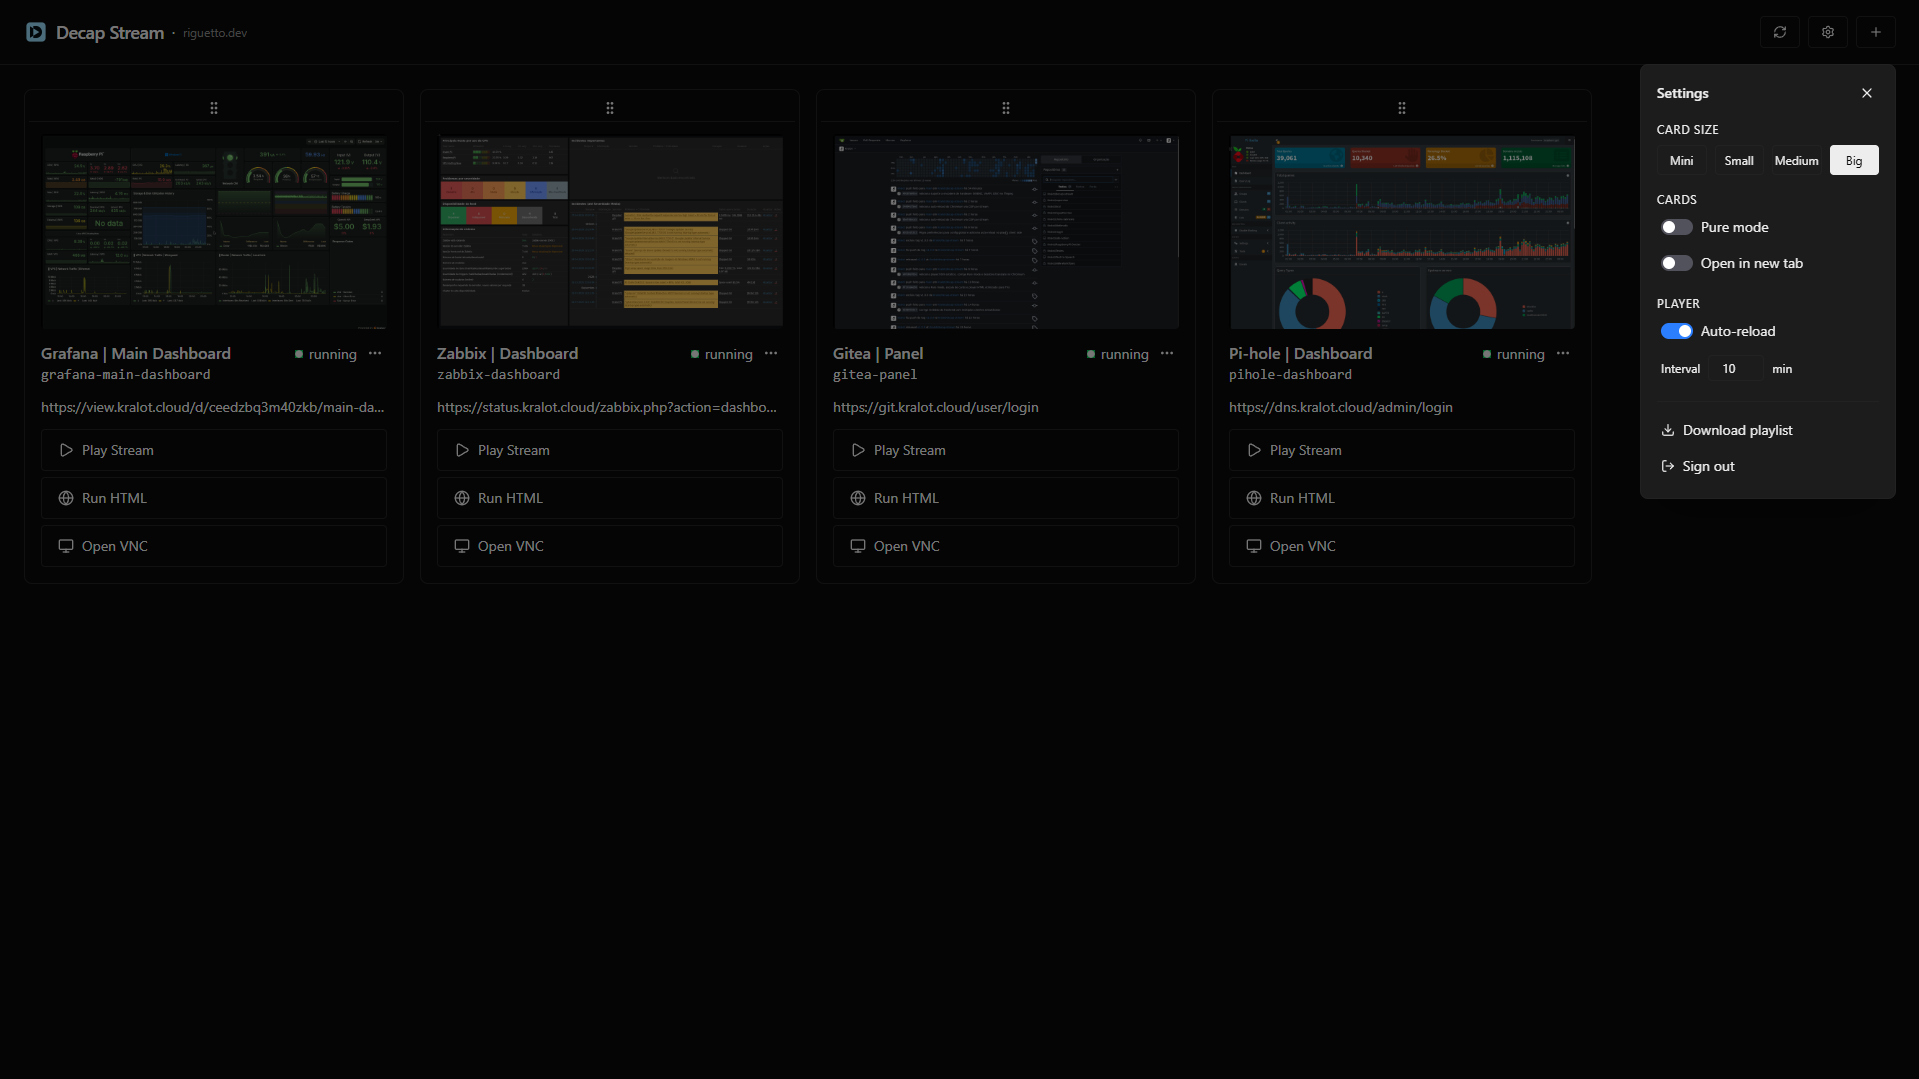
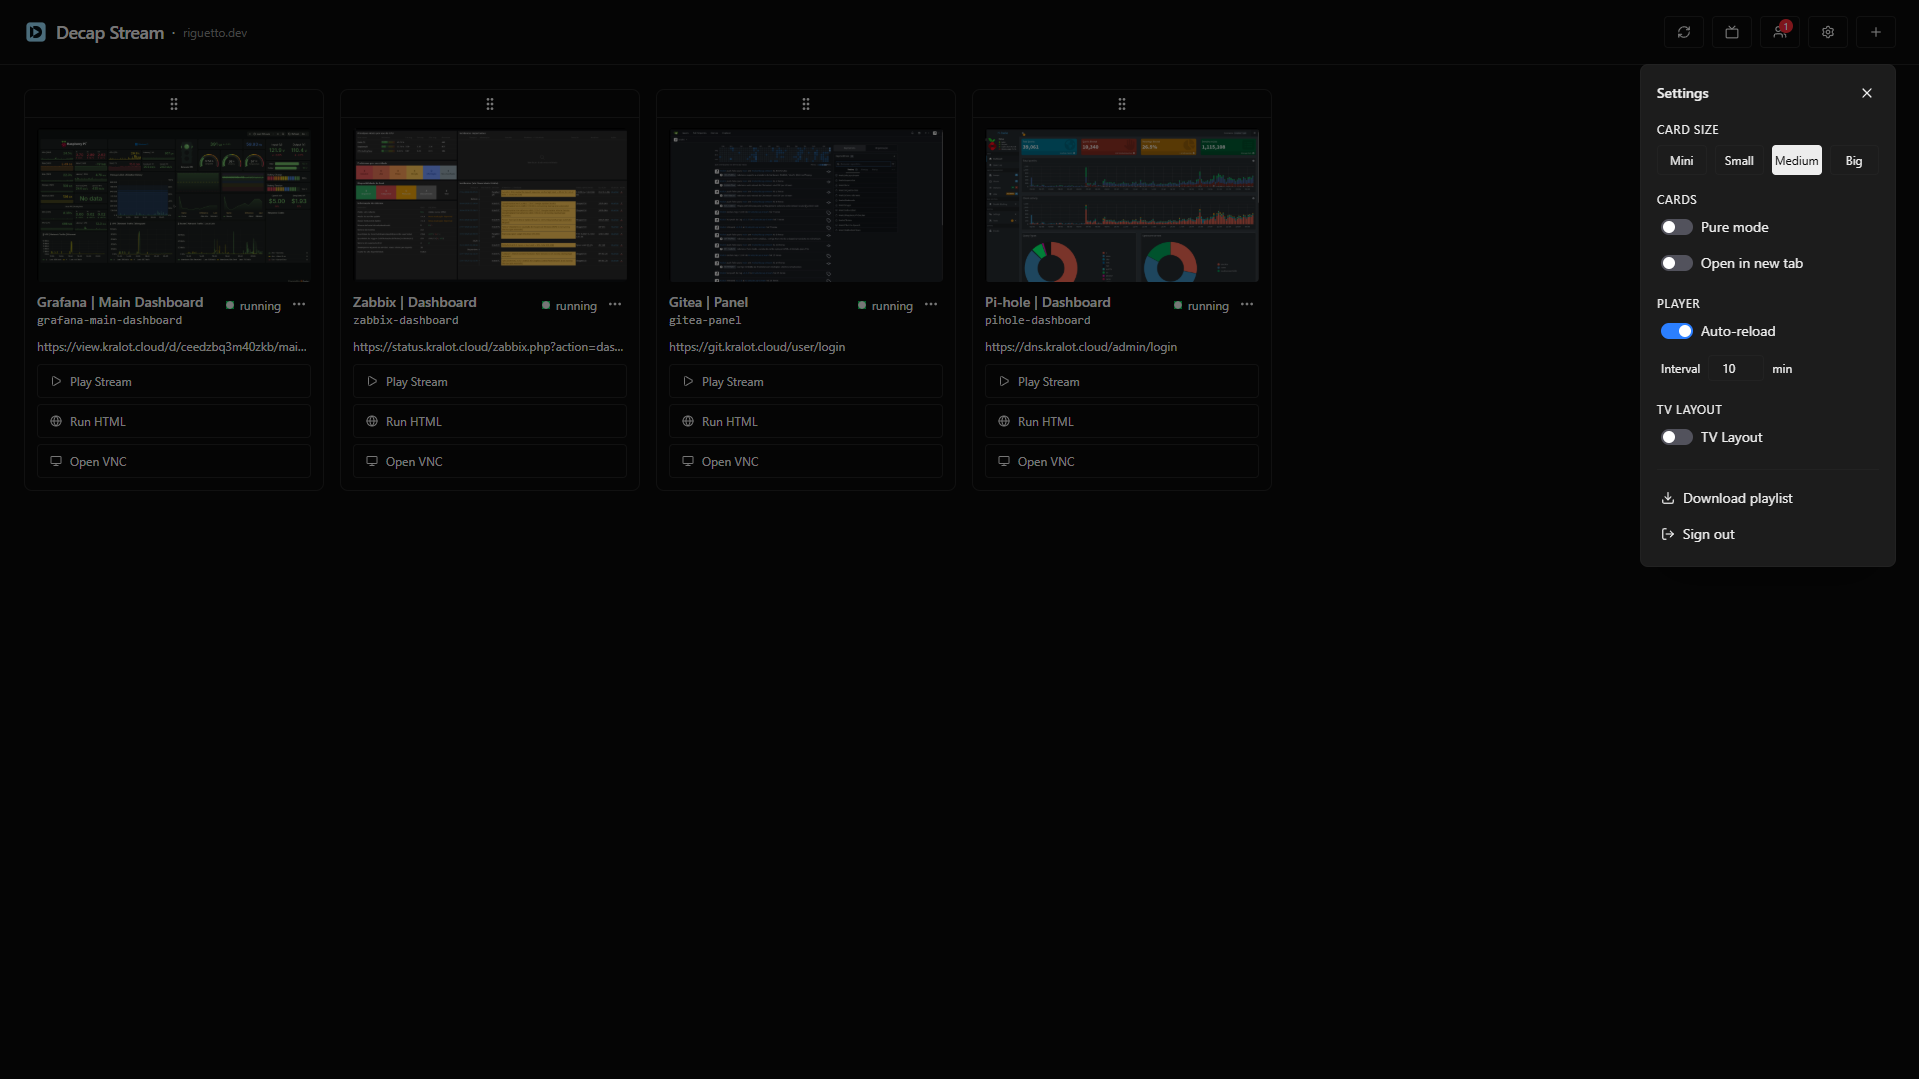
Atualiza Screenshots, README e CHANGELOG

diff --git a/CHANGELOG.md b/CHANGELOG.md
@@ -1,45 +1,28 @@
 # Changelog
 
-## Decap Stream v1.0.0
+## Decap Stream v1.1.0
 
-Turn any web page into an RTMP/HLS stream. Chromium renders the page in a virtual display, ffmpeg captures it, and MediaMTX publishes it, all managed through a web UI.
+### Added
 
-### What's included
+- **TV Layout** — grid view (`rows × cols`) replacing the cards list, with thumbnails, auto-refresh, click-to-open (HLS / HTML / VNC) and drag-and-drop into fixed slots persisted on the server (`tvPosition`).
+- **TV Wall fullscreen** — `/api/tv-wall?rows=R&cols=C` returns an HTML page that plays the HLS of every stream in its slot simultaneously, with per-cell stall detection, global mute and Pure variant (`?pure=1`).
+- **Active viewer tracking** — `<Users>` popup in the header shows who is watching each stream (IP, mode, duration). Captures HLS/HTML/Wall via the proxy and VNC via the WebSocket upgrade; TV Wall is deduplicated to 1 viewer per IP.
+- **Hardware encoders for ffmpeg** — `FFMPEG_HWACCEL` env var selects `nvenc`, `vaapi` or `qsv` (default keeps `libx264`). Preset/tune are mapped to each codec; Dockerfile ships VAAPI/QSV drivers.
+- **Per-stream Chromium auto-reload** — toggle + interval in the card menu, run by a dedicated `autoreload-{id}` supervisor process that reloads the page via Chrome DevTools Protocol without restarting the stream.
+- **Player client-side auto-reload** — `autoReload` + `reloadInterval` in global preferences make `/player/[id]` reload itself on a configurable interval.
+- **UI defaults via env vars** — `DEFAULT_PURE_MODE`, `DEFAULT_OPEN_NEW_TAB`, `DEFAULT_RELOAD_CLIENT`, `DEFAULT_RELOAD_CLIENT_TIME`, `DEFAULT_TV_LAYOUT`, `DEFAULT_TV_ROWS`, `DEFAULT_TV_COLS`, `DEFAULT_TV_CLICK_ACTION` seed the UI on first visit via `/api/config`.
+- **Pure mode and minimal HTML player** — global toggle that switches buttons to direct `.m3u8` and to `/player/[id].html` (no chrome), ideal for VLC and TV browsers.
+- **PWA icons** and improved mobile layout — floating Add/Refresh FABs, full-width cards, no horizontal scroll, responsive header.
 
-- **Dashboard with live thumbnails and drag-and-drop ordering**
-- **Per-stream configuration** — resolution, scale, FPS, bitrate, x264 preset/tune, GPU flag
-- **Scalable card sizes** — mini / sm / md / lg with proportional scaling across all elements
-- **Inline VNC** — inspect any stream's virtual display without leaving the UI
-- **Autologin with CDP detection** — skips login if the session is still alive on container restart
-- **Built-in HLS player** — with controls; static standalone page optimized for TV browsers (`/player/<id>.html`)
-- **Pure mode** — global toggle in Settings to open streams as a raw `.m3u8` link or a zero-dependency `.html` page, usable in VLC or any HLS-capable player
-- **Open in new tab** — global toggle in Settings to open any action button in a new tab; saved in the browser
-- **Optional UI authentication** — set `AUTH_USER` + `AUTH_PASS` to password-protect the entire UI
-- **Persistent desired state** — streams restore automatically on container restart
-- **Mobile-friendly UI** — responsive layout for phones: floating Add/Refresh FABs, full-width cards, no horizontal scroll
+### Changed
 
-### Quick start
+- **Global preferences migrated** to a single `global-prefs` object in `localStorage`, with defaults coming from `/api/config`.
+- **VNC access is fully proxied** through Next.js: HTTP via `/api/novnc/[...path]` and WebSocket via an `upgrade` handler in `docker/server.mjs`. Port 6080 no longer needs to be exposed.
+- **HLS delivery proxied** via `/api/hls/[...path]`; the static and `.html` players try `:8888` first and fall back to the proxy. Port 8888 no longer needs to be exposed.
+- **Status polling consolidated** — a single `supervisorctl status` call cached for 3s feeds `GET /api/streams/statuses`, fixing UI slowness with multiple simultaneous clients.
+- **Chromium hardening** — disables Translate, password manager and crash-restore bubbles via flags and managed policies; `Default/Preferences` is rewritten before start to suppress the "Restore pages?" bar.
 
-```yaml
-services:
-  decap-stream:
-    image: ghcr.io/riguettodev/decap-stream:latest
-    restart: unless-stopped
-    shm_size: "1gb"
-    security_opt:
-      - seccomp:unconfined
-    ports:
-      - "3000:3000"
-      - "127.0.0.1:6080:6080"
-    volumes:
-      - streams:/app/data/streams
+### Fixed
 
-volumes:
-  streams:
-```
-
-```bash
-docker compose up -d
-```
-
-See the [README](README.md) for the full configuration reference.
+- VNC SSR hydration bug (`window.location.hostname` rendered as `localhost`) by deferring the iframe to the client.
+- Pure mode now produces correct destinations for every button (HLS link, HTML page, VNC).

diff --git a/README.md b/README.md
@@ -12,7 +12,11 @@ Turn any web page into an RTMP/HLS stream. Chromium renders the page, ffmpeg cap
 <p align="center">
   <img src="./screenshots/dashboard-config.png" alt="Dashboard Config" width="32.5%" />
   <img src="./screenshots/stream-config.png" alt="Stream Config" width="32.5%" />
-  <img src="./screenshots/login.png" alt="Login Page" width="32.5%" />
+  <img src="./screenshots/dashboard-tvlayout.png" alt="Dashboard TV-Layout" width="32.5%" />
+</p>
+
+<p align="center">
+  <img src="./screenshots/player-tvwall.png" alt="Player TV-Wall" width="98%" />
 </p>
 
 ## How it works
